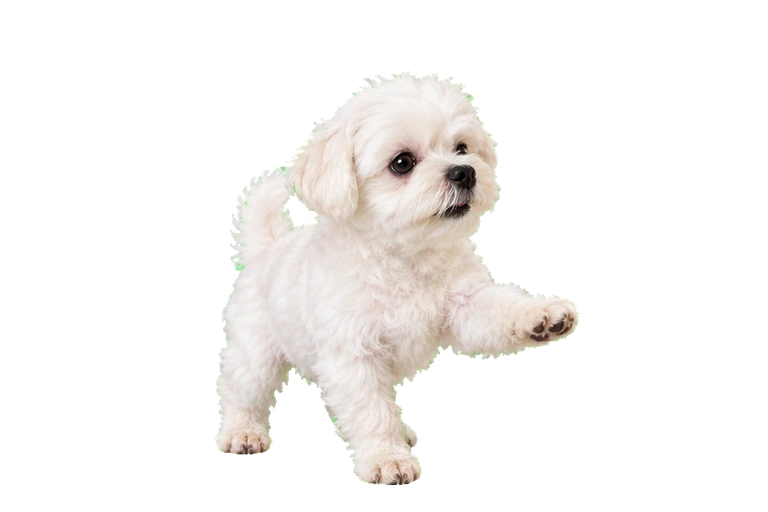
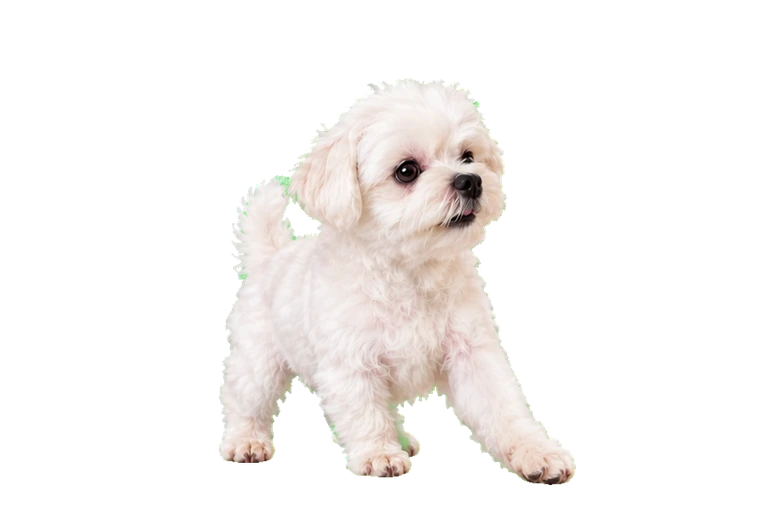
fix: align Milky toy contacts with refreshed art

diff --git a/src/cyber-pet.ts b/src/cyber-pet.ts
@@ -1146,7 +1146,7 @@ export function mountCyberPet(
   function beginFeed() {
     cancelAction();
     clearSession();
-    const muzzleReach = (depthY: number) => reachAhead(newArtwork ? 360 : MUZZLE_AHEAD_NATIVE, depthY);
+    const muzzleReach = (depthY: number) => reachAhead(newArtwork ? 190 : MUZZLE_AHEAD_NATIVE, depthY);
     if (motionStopped()) {
       // Static explicit posture with static food and no forced movement: the dog stays
       // put, so the bowl must appear under her actual lowered muzzle, not a walk away.
@@ -1227,7 +1227,7 @@ export function mountCyberPet(
   /** True only when the resting ball actually sits at the registered raised-paw tip. */
   function ballInPawContact(): boolean {
     if (!ball || !ball.resting) return false;
-    const reach = reachAhead(newArtwork ? 430 : PAW_REACH_NATIVE, ball.y);
+    const reach = reachAhead(newArtwork ? 345 : PAW_REACH_NATIVE, ball.y);
     return Math.abs(Math.abs(ball.x - position.x) - reach) <= .006 && Math.abs(ball.y - position.y) <= .004;
   }
   function playRound(plan: ReturnType<typeof planMilkyPlay>, round: number, autonomous: boolean, tries = 0, waits = 0) {
@@ -1248,7 +1248,7 @@ export function mountCyberPet(
     // Stand where the registered raised paw tip actually meets the ball on contact. If
     // the natural side collapses to a no-walk step (a side-view dog cannot take a nearly
     // vertical step) or a wall clamps the stand off target, approach from the other side.
-    const reach = reachAhead(newArtwork ? 430 : PAW_REACH_NATIVE, ball.y);
+    const reach = reachAhead(newArtwork ? 345 : PAW_REACH_NATIVE, ball.y);
     const offTarget = (point: MilkyPoint) =>
       Math.abs(Math.abs(ball!.x - point.x) - reach) > .004 || Math.abs(ball!.y - point.y) > .002;
     const approachDir = ball.x < position.x ? -1 : 1;
@@ -1288,7 +1288,7 @@ export function mountCyberPet(
         playPoseSteps([{ pose: 'play-reach', hold: plan.reachHold, motion: 'playing' }], 0, revision, () => {
           if (revision !== actionRevision || !ball) return;
           const chaseDir = ball.x < position.x ? -1 : 1;
-          walkTo({ x: ball.x - chaseDir * reachAhead(newArtwork ? 430 : PAW_REACH_NATIVE, ball.y), y: ball.y }, { autonomous, cadence: 1.4, onDone: () => {
+          walkTo({ x: ball.x - chaseDir * reachAhead(newArtwork ? 345 : PAW_REACH_NATIVE, ball.y), y: ball.y }, { autonomous, cadence: 1.4, onDone: () => {
             if (round + 1 < plan.rounds) playRound(plan, round + 1, autonomous);
             // Only a genuinely completed session (real contact happened) may end in the
             // occasional photo-20 pant; the honest give-up path above never does.
@@ -1357,7 +1357,7 @@ export function mountCyberPet(
       if (!ball || !ballBounds) { settle(); return; }
       const landing = predictMilkyBallRest(ball, ballBounds);
       const direction = landing.x < position.x ? -1 : 1;
-      const target = { x: landing.x - direction * reachAhead(newArtwork ? 430 : PAW_REACH_NATIVE, landing.y), y: landing.y };
+      const target = { x: landing.x - direction * reachAhead(newArtwork ? 345 : PAW_REACH_NATIVE, landing.y), y: landing.y };
       walkTo(target, { cadence: 1.4, onDone: () => playRound({ ...planMilkyPlay(), rounds: 1 }, 0, false) });
     });
   }

diff --git a/asset-sources/milky-pet-refresh/README.md b/asset-sources/milky-pet-refresh/README.md
@@ -11,3 +11,5 @@ Profile gait needs a 1.42 scale correction because the wide body had been fitted
 The jump strip was regenerated with natural elbow and hindleg flexion to keep limb anatomy consistent. Its five frames retain a single 1.07 scale correction around the same floor anchor; body lift is authored in the strip and the existing bed hop trajectory. Chin contact uses measured native [968,950] and a 220-pixel bounded whole-frame translation for the newly registered art.
 
 Runtime WebP derivatives are 768×512 (logical 1536×1024), quality 92; generated full-resolution strips remain here for reproducibility.
+
+The final play reach uses a regenerated low forepaw contact at native [1140,958] (345 pixels ahead of the support anchor). The eating muzzle is 190 pixels ahead. These measured landmarks keep bowl and ball placement aligned with the replacement anatomy.
